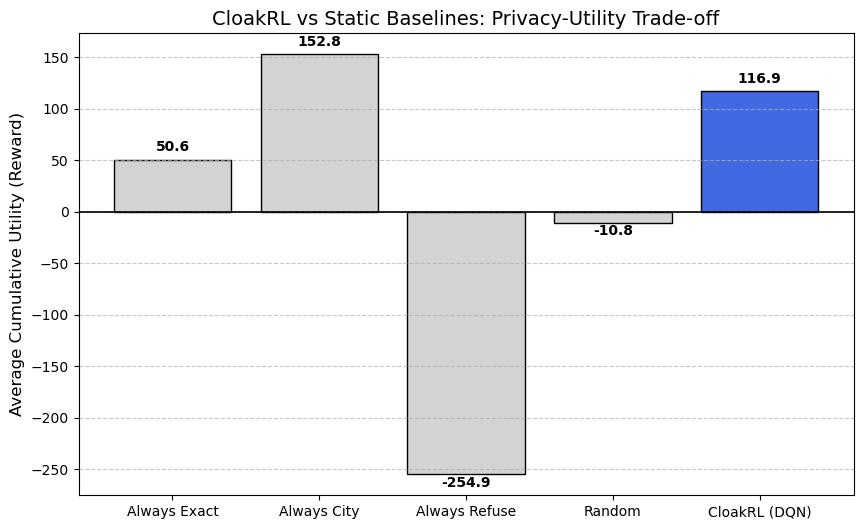
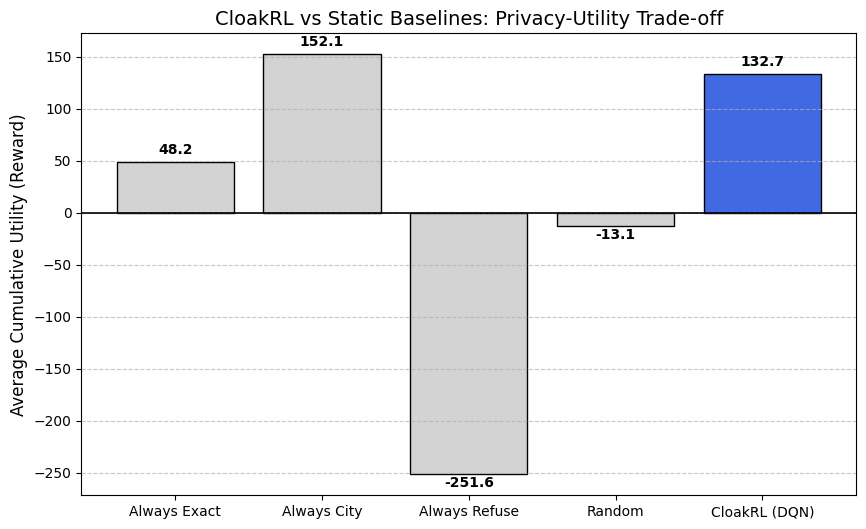
Complete README with project structure and execution instructions

diff --git a/README.md b/README.md
@@ -1,9 +1,27 @@
 # CloakRL: Adaptive Location Privacy
 
-This project models cumulative location tracking as a Markov Decision Process (MDP). An RL agent manages a finite privacy budget across heterogeneous app requests, dynamically selecting location disclosure precision to optimize the privacy-utility trade-off.
+CloakRL is a Reinforcement Learning project that treats mobile location privacy as a sequential Markov Decision Process (MDP). A Deep Q-Network (DQN) agent manages a finite privacy budget across heterogeneous app requests, dynamically selecting location disclosure precision to optimize the privacy-utility trade-off.
+
+## Project Structure
+* `privacy_env.py`: Custom Gymnasium environment defining the state, action spaces, and MDP dynamics.
+* `baselines.py`: Static heuristic policies (Always Exact, Always City, Always Refuse, Random) for benchmarking.
+* `train.py`: Training pipeline using Stable-Baselines3.
+* `evaluate.py`: Benchmarking script that generates performance comparisons.
+
+## Features
+* **Custom Gymnasium Environment:** Implements a continuous observation space and discrete action space to simulate real-world app location requests.
+* **Deep RL Agent:** Utilizes Stable-Baselines3's `DQN` with an `MlpPolicy` to learn adaptive privacy strategies over thousands of timesteps.
+* **Heuristic Baselines:** Includes static policies (Always Exact, Always City, Always Refuse, Random) to benchmark the RL agent's learned performance.
+
+## Environment Dynamics (MDP)
+* **Observation Space (Continuous):** An array of `[app_urgency, required_resolution, remaining_privacy_budget]`.
+* **Action Space (Discrete):** 
+  * `0`: Provide Exact Location (High utility, High privacy cost)
+  * `1`: Provide City-Level Location (Moderate utility, Low privacy cost)
+  * `2`: Refuse Request (Negative utility penalty, Zero privacy cost)
+* **Reward Function:** The agent is rewarded based on how well the action satisfies the app's urgency and required resolution, minus the privacy cost. Exhausting the privacy budget results in a severe early-termination penalty.
 
 ## Installation
-*(Instructions to be added)*
-
-## Execution
-*(Instructions to be added)*
+Ensure you have Python 3.8+ installed, then install the required dependencies:
+```bash
+pip install -r requirements.txt
